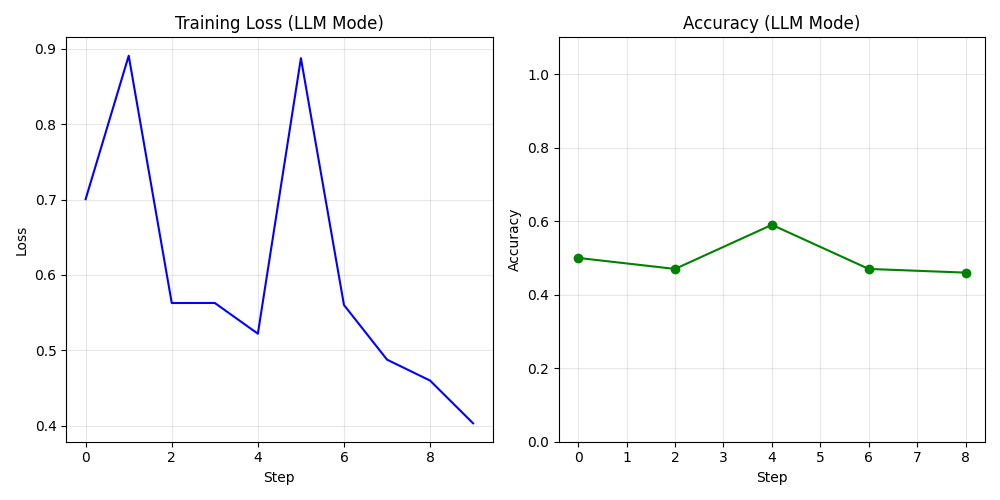
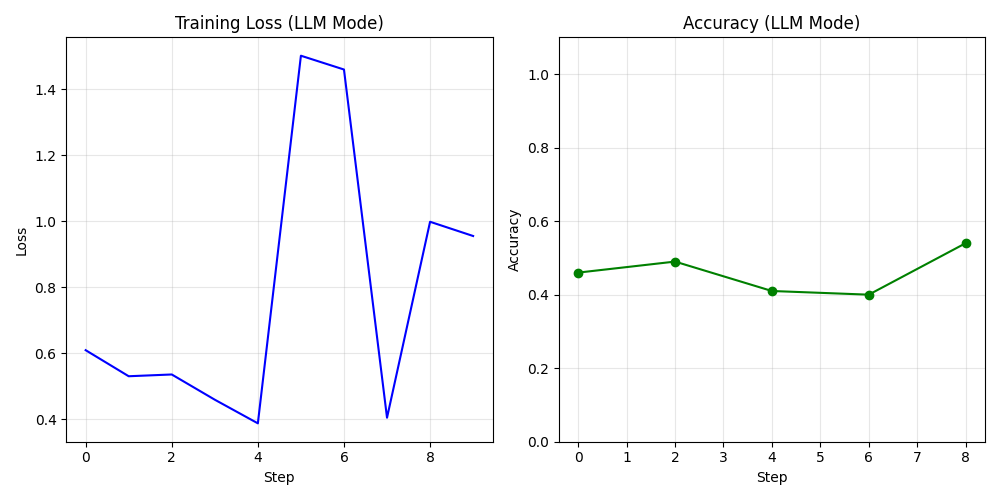
fixed running main.py to run seal loop

diff --git a/seal/runner.py b/seal/runner.py
@@ -101,7 +101,31 @@ def run_imdb_comparison(config_path: str = "configs/default.yaml") -> None:
             
             # Generate edit using the appropriate method
             if mode == "local":
-                edited_text = generate_edit(sample["text"])
+                # Get the opposite sentiment for the edit
+                target_label = 1 - sample["label"]  # Flip the label for the edit
+                edited_text = generate_edit(sample["text"], target_label=target_label, mode="local")
+                
+                # Train step with the edited text and target label
+                loss = trainer.train_step(edited_text, label=target_label)
+                loss_history.append(loss)
+                
+                # Log progress
+                print(f"📊 Step {step+1}/{max_steps} - Loss: {loss:.4f}")
+                
+                # Evaluate periodically
+                if (step + 1) % log_interval == 0 or step == max_steps - 1:
+                    # Evaluate on a small subset for efficiency
+                    eval_subset = random.sample(imdb_data, min(100, len(imdb_data)))
+                    accuracy = trainer.evaluate_accuracy(eval_subset)
+                    accuracy_history.append(accuracy)
+                    print(f"   ✅ Accuracy: {accuracy:.4f}")
+                
+                # Log system usage
+                usage = trainer.get_system_usage()
+                cpu_log.append(usage["cpu"])
+                mem_log.append(usage["memory"])
+                print(f"   💻 CPU: {usage['cpu']:.1f}% | Memory: {usage['memory']:.1f}%")
+                
             else:  # llm mode
                 try:
                     # Create a prompt for sentiment analysis

diff --git a/seal/adapter.py b/seal/adapter.py
@@ -285,7 +285,7 @@ def generate_edit(text: str, label: Optional[int] = None, **kwargs) -> str:
     
     Args:
         text: Input text to be edited
-        label: Optional label for the text (e.g., sentiment)
+        label: Target sentiment label (0 for negative, 1 for positive)
         mode: Either 'local' or 'llm' to specify the editing mode
         **kwargs: Additional arguments for the edit
         
@@ -301,4 +301,10 @@ def generate_edit(text: str, label: Optional[int] = None, **kwargs) -> str:
         # Force reinitialization of LLM if needed
         if kwargs['mode'] == 'llm' and editor.llm is None:
             editor._init_llm_if_needed()
-    return editor.edit(text, label, **kwargs)
+    
+    # Handle target_label parameter (preferred) or fall back to label
+    target_label = kwargs.pop('target_label', label)
+    if target_label is None:
+        target_label = 1  # Default to positive sentiment if no label provided
+    
+    return editor.edit(text, target_label=target_label, **kwargs)
